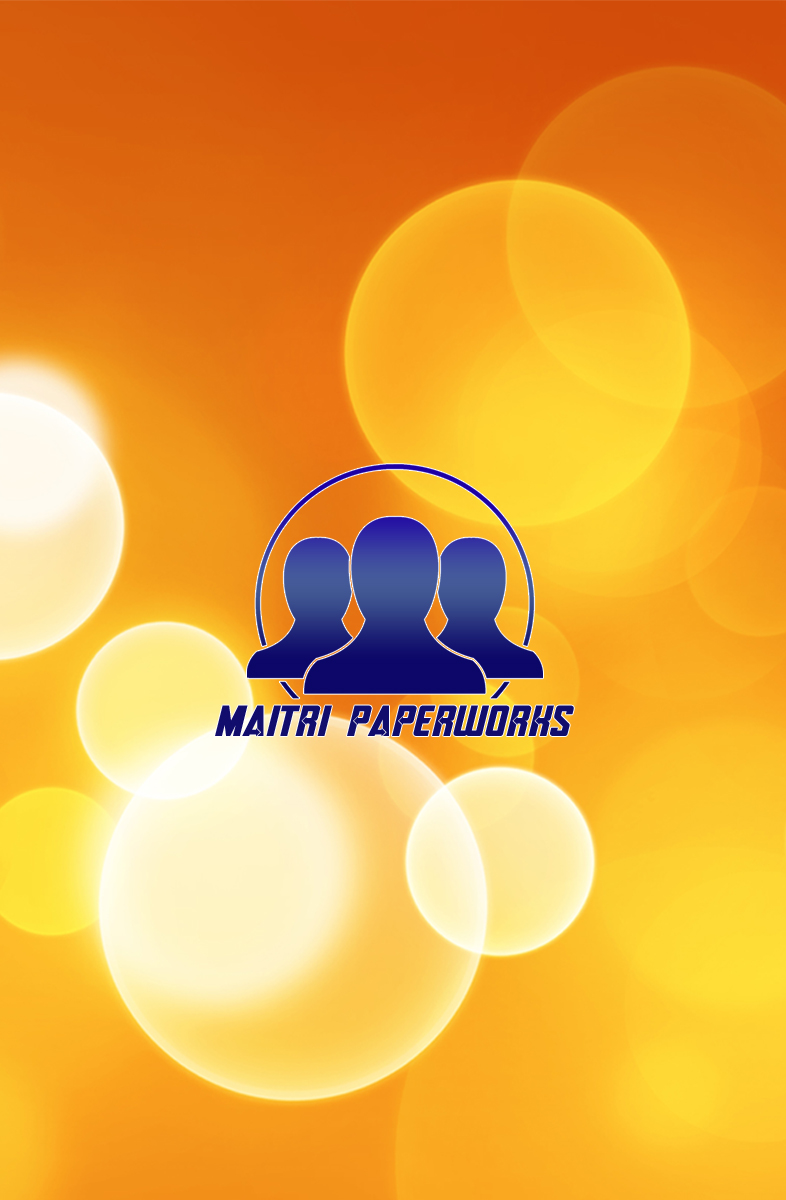
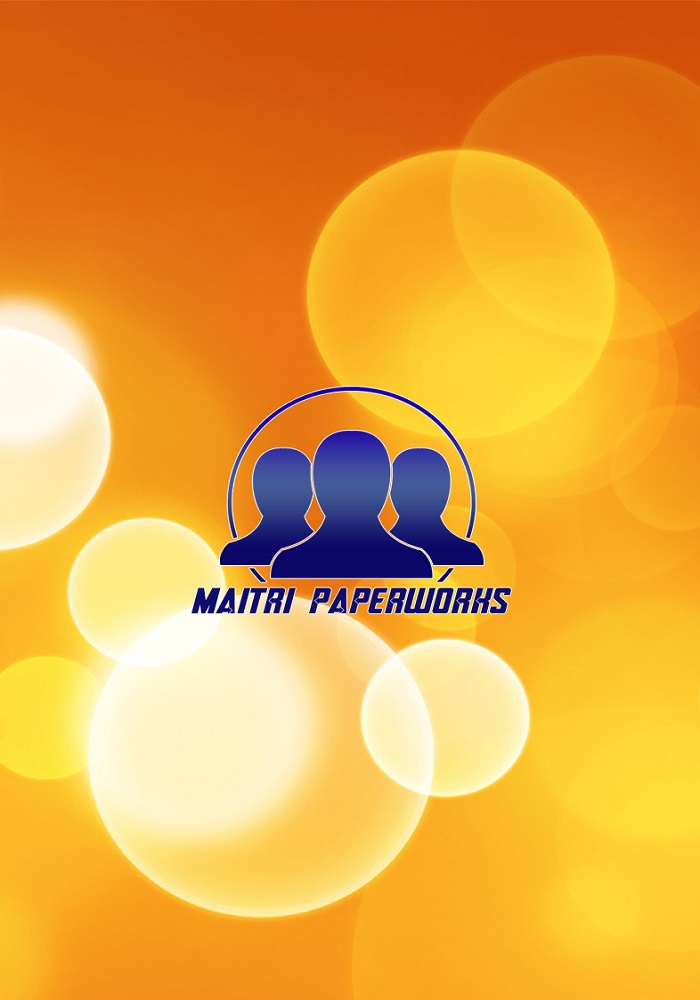
changes

diff --git a/index.html b/index.html
@@ -36,6 +36,10 @@
 			height:200px;
 			background: url('images/contact-us.png') no-repeat center center;				
 		}
+		.aboutUsImage{
+			height:400px;
+			background: url('images/Maitri_Paperworks.png') no-repeat center center;			
+		}
 		@media only screen and (max-width: 600px) {		  
 		  .starter_container {			   
 				background: url('images/steak_m.jpg') no-repeat center center;				
@@ -44,14 +48,18 @@
 				width:250px;
 			}	
 		 .mainLogoClass{
-			height: 75px;
+			height: 60px;
 			margin-top: -51px;
 			}	
 		.contactusClass{
 			height:200px;
 			background: url('images/contact-us_m.png') no-repeat center center;				
-		}			
-		}
+		}	
+		.aboutUsImage{
+			height:280px;
+			background: url('images/Maitri_Paperworks_m.png') no-repeat center center;			
+		}		
+	}
 		</style>
     </head>
 
@@ -104,7 +112,7 @@
                 <div class="col-md-6">
                     <div class="img-section">
 						<br><br><br>
-                       <img src="images/Maitri_Paperworks.png" class="mobileImgSize" style="height:424px">
+                       <div class="aboutUsImage" ></div>
                    </div>
                 </div>
             </div>
@@ -200,7 +208,7 @@
                                             <p>Orders accepted only for Navi Mumbai</p>     
 											<p>We accept bulk orders for Weddings, Birthdays, Parties, etc</p>     
 											<p>CASH ON DELIVERY AVAILABLE</p> 
-											<p><img src="images/BHIM.png" /><img src="images/paytm.png" /><img src="images/gpay.png" /><img src="images/upi.png" /></p> 
+											<p><img src="images/paytm.png" /><img src="images/gpay.png" /><img src="images/upi.png" /></p> 
                                         </div>
                                     </div>
 										</div>
@@ -270,7 +278,7 @@
 
         <footer class="sub_footer">
             <div class="container">
-                <div class="col-md-4"><p class="sub-footer-text text-center">&copy; Copyright Maitri Entreprises 2020</p></div>
+                <div class="col-md-4"><p class="sub-footer-text text-center">&copy; Copyright Maitri Paperworks 2020</p></div>
                 <div class="col-md-4"><p class="sub-footer-text text-center">Back to <a href="#top">TOP</a></p>
                 </div>
                
